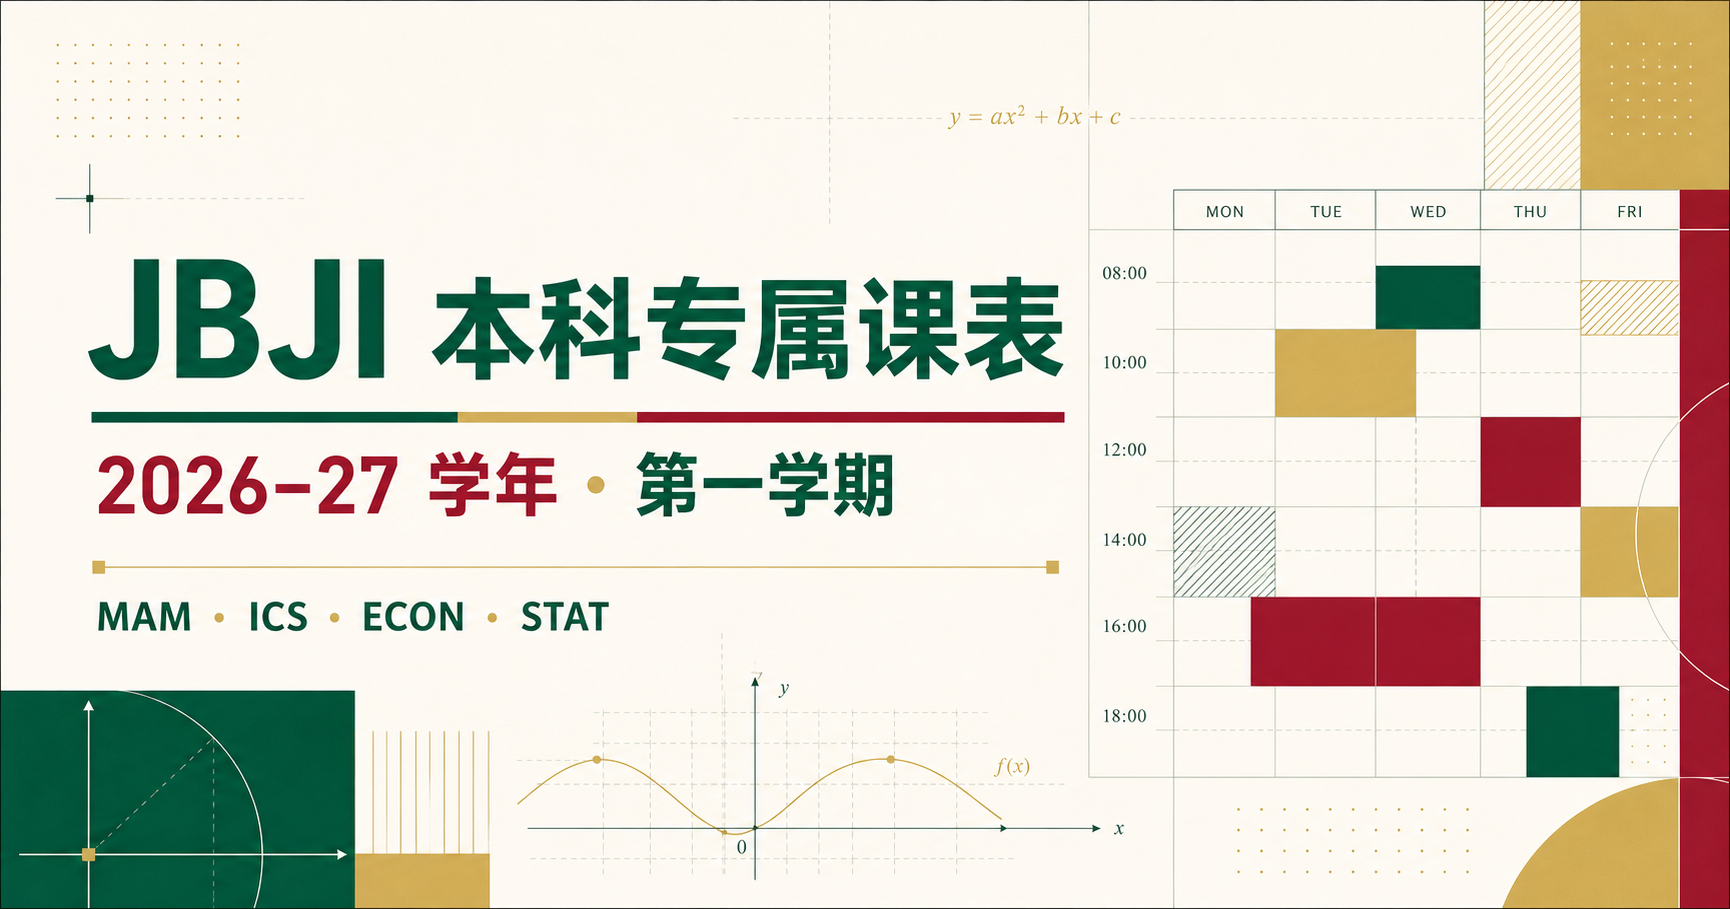
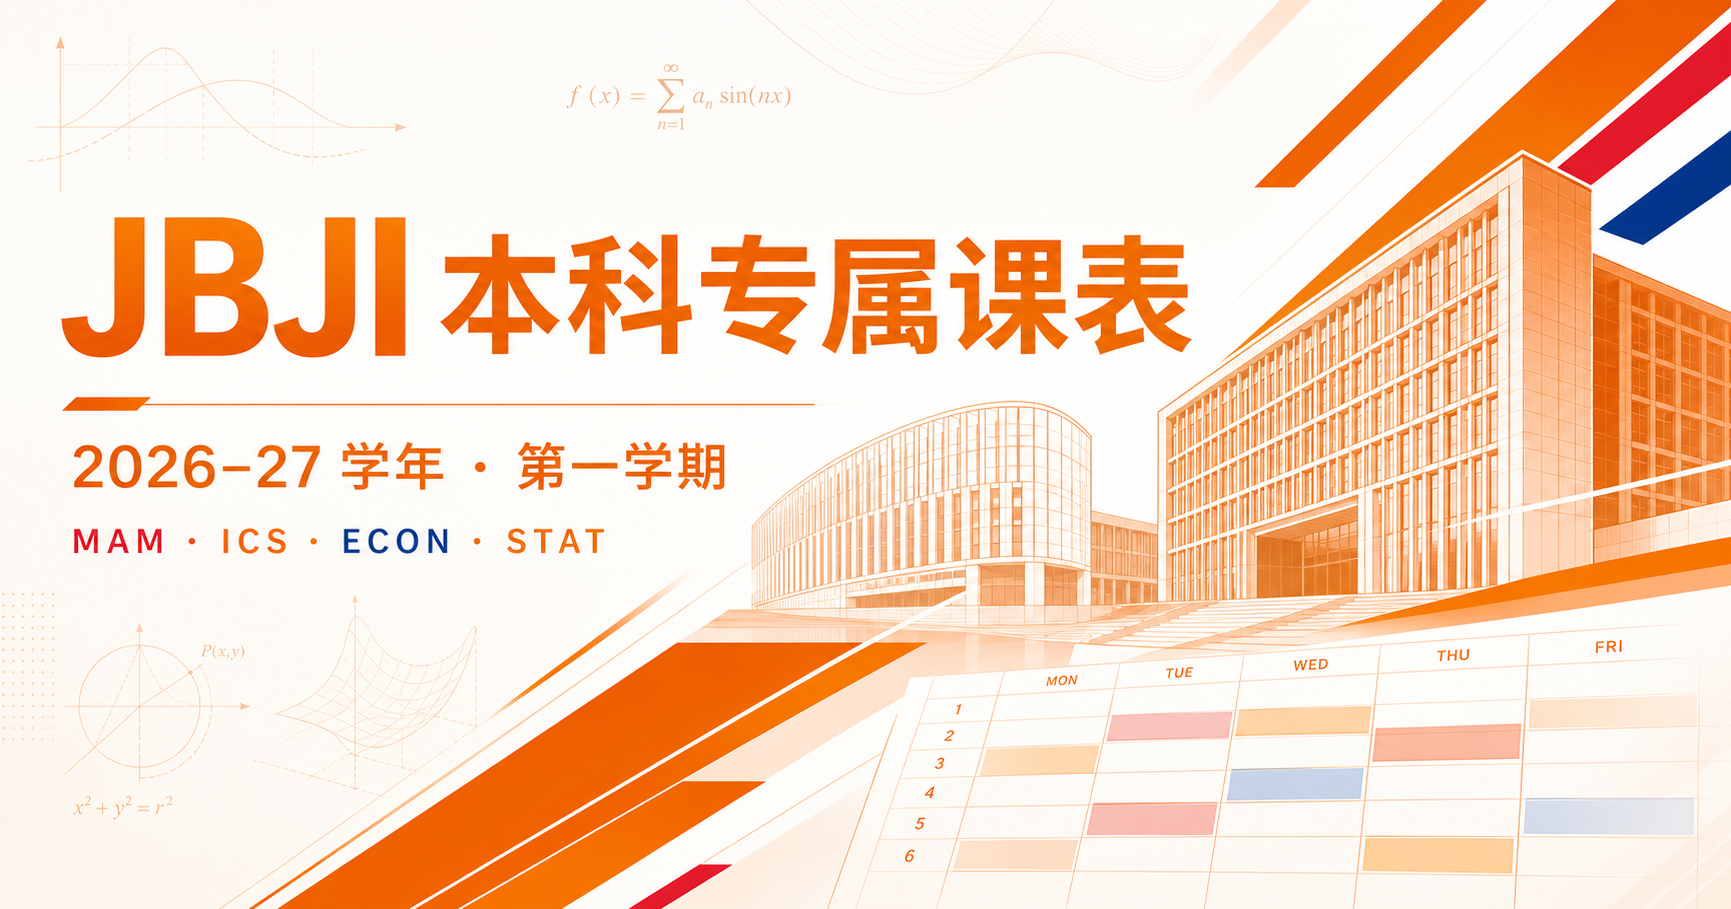
Align design with official JBJI identity

diff --git a/app/globals.css b/app/globals.css
@@ -1,56 +1,53 @@
-:root { --ink:#16241f; --muted:#68746f; --line:#d8ddd5; --green:#006747; --red:#9e1b32; --gold:#c7a45b; --paper:#f4f1e9; }
+:root { --ink:#292929; --muted:#696969; --line:#e3e3e3; --orange:#e77817; --orange-bright:#ff9f00; --red:#e21143; --blue:#244b98; --paper:#f6f6f6; }
 * { box-sizing:border-box; }
 html { scroll-behavior:smooth; }
 body { margin:0; color:var(--ink); background:var(--paper); font-family:"Noto Sans SC","Microsoft YaHei",Arial,sans-serif; }
 button,a { font:inherit; }
 button { color:inherit; }
-.topbar { min-height:82px; padding:12px max(24px,calc((100vw - 1240px)/2)); background:rgba(255,255,255,.96); border-top:4px solid var(--red); border-bottom:1px solid var(--line); display:flex; align-items:center; justify-content:space-between; position:sticky; top:0; z-index:20; backdrop-filter:blur(14px); }
-.brand { display:flex; align-items:center; gap:14px; color:inherit; text-decoration:none; }
-.brandMark { width:58px; height:42px; display:grid; grid-template-columns:1fr 1fr; overflow:hidden; border-radius:3px; color:#fff; font-family:Georgia,serif; font-size:19px; font-weight:800; box-shadow:0 5px 16px rgba(19,44,34,.14); }
-.brandMark b { display:grid; place-items:center; }
-.brandMark b:first-child { background:var(--green); }
-.brandMark b:last-child { background:var(--red); }
-.brand strong,.brand small { display:block; }
-.brand strong { font-family:Georgia,"Songti SC",serif; font-size:16px; letter-spacing:.02em; }
-.brand small { color:var(--muted); font-size:8px; margin-top:4px; letter-spacing:.15em; }
+.topbar { min-height:96px; padding:12px max(24px,calc((100vw - 1240px)/2)); background:rgba(255,255,255,.97); border-top:4px solid var(--orange); border-bottom:1px solid var(--line); display:flex; align-items:center; justify-content:space-between; position:sticky; top:0; z-index:20; backdrop-filter:blur(14px); }
+.brand { display:flex; align-items:center; color:inherit; text-decoration:none; background:rgba(48,48,48,.82); padding:9px 14px; }
+.brandLogo { display:block; width:min(470px,50vw); height:auto; }
 .sourceBadge { display:flex; align-items:center; gap:10px; color:var(--muted); font-size:10px; background:#f7f5ef; border:1px solid #ddd6c8; padding:7px 11px; border-radius:3px; }
-.sourceBadge b { color:var(--red); font-family:Georgia,serif; font-size:14px; }
+.sourceBadge b { color:var(--orange); font-size:13px; }
 .hero,.filterPanel,.contextBar,.scheduleSection,.courseSection,.notice { width:min(1240px,calc(100% - 40px)); margin-inline:auto; }
-.hero { position:relative; min-height:420px; padding:74px 62px 46px; display:flex; justify-content:space-between; align-items:flex-end; gap:34px; color:#fff; overflow:hidden; background:linear-gradient(118deg,#004d38 0%,#006747 62%,#07412f 100%); border-bottom:8px solid var(--red); }
-.hero::before { content:"JBJI"; position:absolute; right:-15px; top:-48px; color:rgba(255,255,255,.055); font:900 240px/1 Georgia,serif; letter-spacing:-.08em; }
-.hero::after { content:""; position:absolute; inset:0; background:linear-gradient(90deg,transparent 49.8%,rgba(255,255,255,.055) 50%,transparent 50.2%); background-size:54px 100%; pointer-events:none; }
-.heroCopy,.heroStat { position:relative; z-index:1; }
-.eyebrow { margin:0 0 12px; color:var(--green); font-size:10px; font-weight:900; letter-spacing:.16em; }
-.hero .eyebrow { color:#e4ca8d; }
+.hero { position:relative; min-height:420px; padding:54px 56px 42px; display:flex; justify-content:space-between; align-items:flex-end; gap:34px; overflow:hidden; background:#fff5ef; border-bottom:7px solid var(--orange); }
+.hero::before,.hero::after { content:""; position:absolute; z-index:1; width:12px; height:145%; top:-20%; background:var(--orange); transform:rotate(39deg); }
+.hero::before { left:57%; }
+.hero::after { left:59%; width:4px; }
+.heroBackdrop { position:absolute; inset:0; }
+.heroBackdrop::after { content:""; position:absolute; inset:0; background:linear-gradient(100deg,#fff5ef 0%,rgba(255,245,239,.98) 45%,rgba(255,245,239,.78) 58%,rgba(255,255,255,.08) 76%); }
+.heroBackdrop img { width:100%; height:100%; object-fit:cover; object-position:center; }
+.heroCopy,.heroStat { position:relative; z-index:2; }
+.eyebrow { margin:0 0 12px; color:var(--orange); font-size:10px; font-weight:900; letter-spacing:.16em; }
 h1 { margin:0; max-width:800px; font-family:Georgia,"Songti SC",serif; font-size:clamp(40px,5.5vw,72px); line-height:1.06; letter-spacing:-.035em; font-weight:600; }
 .lead { max-width:700px; margin:20px 0 0; color:var(--muted); font-size:14px; line-height:1.8; }
-.hero .lead { max-width:620px; color:rgba(255,255,255,.76); }
-.heroRule { display:flex; gap:0; margin-top:28px; color:#fff; font-size:10px; letter-spacing:.08em; }
-.heroRule span { padding:0 13px; border-left:1px solid rgba(255,255,255,.32); }
+.hero .lead { max-width:590px; color:#5e5e5e; }
+.heroRule { display:flex; gap:0; margin-top:28px; color:#333; font-size:10px; letter-spacing:.08em; }
+.heroRule span { padding:0 13px; border-left:1px solid #c7c7c7; }
 .heroRule span:first-child { padding-left:0; border-left:0; }
-.heroStat { min-width:150px; padding:18px 22px; border-left:1px solid rgba(255,255,255,.25); text-align:right; }
+.heroStat { min-width:150px; padding:20px 24px; color:#fff; background:rgba(231,120,23,.94); text-align:right; box-shadow:10px 10px 0 rgba(255,255,255,.72); }
 .heroStat strong,.heroStat span,.heroStat small { display:block; }
 .heroStat strong { font-family:Georgia,serif; font-size:64px; color:#fff; line-height:1; }
-.heroStat span,.heroStat small { color:#e4ca8d; font-size:9px; letter-spacing:.12em; }
+.heroStat span,.heroStat small { color:#fff; font-size:9px; letter-spacing:.12em; }
 .heroStat small { margin-top:5px; }
-.filterPanel { position:relative; z-index:6; margin-top:-20px; background:#fff; border:1px solid #d8d1c4; border-top:4px solid var(--gold); border-radius:4px; padding:20px; display:grid; grid-template-columns:auto 1fr auto; gap:22px; box-shadow:0 18px 38px rgba(22,45,36,.12); }
-.filterGroup>span { display:block; margin:0 0 9px 2px; color:#7e6e50; font-size:9px; font-weight:900; letter-spacing:.14em; }
+.filterPanel { position:relative; z-index:6; margin-top:-20px; background:#fff; border:1px solid #dedede; border-top:4px solid var(--orange); border-radius:2px; padding:20px; display:grid; grid-template-columns:auto 1fr auto; gap:22px; box-shadow:0 18px 38px rgba(35,35,35,.09); }
+.filterGroup>span { display:block; margin:0 0 9px 2px; color:var(--orange); font-size:9px; font-weight:900; letter-spacing:.14em; }
 .segmented { display:flex; gap:6px; flex-wrap:wrap; }
 .segmented button { border:1px solid #d9ddd8; background:#f8f8f4; min-height:45px; border-radius:3px; padding:8px 14px; cursor:pointer; transition:.18s ease; }
-.segmented button:hover { border-color:var(--green); color:var(--green); transform:translateY(-1px); }
-.segmented button:focus-visible { outline:3px solid #b9d2c8; outline-offset:2px; }
-.segmented button.active { color:#fff; background:var(--green); border-color:var(--green); box-shadow:inset 0 -3px 0 var(--gold),0 7px 16px rgba(0,103,71,.16); }
+.segmented button:hover { border-color:var(--orange); color:var(--orange); transform:translateY(-1px); }
+.segmented button:focus-visible { outline:3px solid #ffd2a8; outline-offset:2px; }
+.segmented button.active { color:#fff; background:var(--orange); border-color:var(--orange); box-shadow:inset 0 -3px 0 var(--orange-bright),0 7px 16px rgba(231,120,23,.2); }
 .segmented button small,.segmented button b { display:block; }
 .segmented button b { font-size:11px; }
 .segmented button small { margin-top:2px; font-size:9px; opacity:.75; }
 .majorGroup .segmented { flex-wrap:nowrap; }
 .majorGroup .segmented button { min-width:112px; }
 .classGroup .segmented button { min-width:58px; }
-.contextBar { margin-top:12px; padding:11px 16px; display:flex; align-items:center; gap:10px; color:#aab5b0; font-size:9px; letter-spacing:.04em; background:var(--ink); border-left:5px solid var(--red); }
+.contextBar { margin-top:12px; padding:11px 16px; display:flex; align-items:center; gap:10px; color:#c8c8c8; font-size:9px; letter-spacing:.04em; background:#333; border-left:5px solid var(--orange); }
 .contextBar strong { color:#fff; font-size:11px; }
 .contextBar small { margin-left:auto; }
 .scheduleSection,.courseSection { padding:26px; background:#fff; border:1px solid #d8d2c7; border-radius:4px; box-shadow:0 8px 25px rgba(35,46,40,.045); }
-.scheduleSection { margin-top:10px; border-top:4px solid var(--green); }
+.scheduleSection { margin-top:10px; border-top:4px solid var(--orange); }
 .courseSection { margin-top:18px; }
 .sectionHead { display:flex; justify-content:space-between; align-items:end; gap:20px; margin-bottom:16px; }
 .sectionHead.compact { align-items:center; }
@@ -58,15 +55,15 @@ h1 { margin:0; max-width:800px; font-family:Georgia,"Songti SC",serif; font-size
 .legend { display:flex; gap:14px; color:var(--muted); font-size:10px; flex-wrap:wrap; }
 .legend span { display:flex; align-items:center; gap:5px; }
 .dot { width:8px; height:8px; border-radius:50%; }
-.dot.common { background:var(--red); }
-.dot.shared { background:var(--gold); }
-.dot.own { background:var(--green); }
-.dot.optional { background:#b76a9d; }
+.dot.common { background:var(--orange); }
+.dot.shared { background:var(--red); }
+.dot.own { background:var(--blue); }
+.dot.optional { background:#666; }
 .tableScroll { overflow:auto; border:1px solid #ccd3ce; border-radius:2px; box-shadow:inset 0 0 0 1px #fff; }
 .timetable { min-width:960px; display:grid; grid-template-columns:72px repeat(5,minmax(165px,1fr)); grid-template-rows:50px repeat(12,58px); position:relative; background:#fff; }
-.corner,.dayHead { background:#143a2d; color:#fff; display:flex; align-items:center; justify-content:center; font-size:11px; font-weight:800; }
-.corner { grid-column:1; grid-row:1; background:var(--red); }
-.dayHead { grid-row:1; border-left:1px solid rgba(255,255,255,.14); border-top:3px solid var(--gold); gap:7px; }
+.corner,.dayHead { background:#333; color:#fff; display:flex; align-items:center; justify-content:center; font-size:11px; font-weight:800; }
+.corner { grid-column:1; grid-row:1; background:var(--orange); }
+.dayHead { grid-row:1; border-left:1px solid rgba(255,255,255,.14); border-top:3px solid var(--orange-bright); gap:7px; }
 .dayHead small { opacity:.55; font-size:8px; letter-spacing:.12em; }
 .timeCell { grid-column:1; padding:7px 4px; text-align:center; border-top:1px solid var(--line); background:#f3f1eb; z-index:2; }
 .timeCell strong,.timeCell span,.timeCell small { display:block; }
@@ -82,12 +79,12 @@ h1 { margin:0; max-width:800px; font-family:Georgia,"Songti SC",serif; font-size
 .courseBlock small { margin-top:3px; font-size:8px; line-height:1.3; opacity:.75; }
 .courseBlock em { margin-top:5px; font-size:8px; font-style:normal; font-weight:800; }
 .courseTag { font-size:7.5px; font-weight:900; letter-spacing:.08em; }
-.tone-common { background:#f5e5e8; border-color:var(--red); }
-.tone-shared { background:#f7efd9; border-color:var(--gold); }
-.tone-major { background:#e1f0eb; border-color:var(--green); }
-.tone-optional { background:#f7dff0; border-color:#b76a9d; }
+.tone-common { background:#fff0e3; border-color:var(--orange); }
+.tone-shared { background:#fde8ed; border-color:var(--red); }
+.tone-major { background:#e9eef8; border-color:var(--blue); }
+.tone-optional { background:#eeeeee; border-color:#666; }
 .emptyState { padding:36px; text-align:center; color:var(--muted); font-size:12px; }
-.countBadge { padding:7px 11px; border-radius:2px; background:var(--green); color:#fff; font-family:Georgia,serif; font-size:11px; }
+.countBadge { padding:7px 11px; border-radius:2px; background:var(--orange); color:#fff; font-family:Georgia,serif; font-size:11px; }
 .courseList { display:grid; grid-template-columns:repeat(2,minmax(0,1fr)); gap:8px; }
 .courseItem { border:1px solid var(--line); border-left-width:4px; border-radius:3px; padding:13px 14px; display:flex; justify-content:space-between; gap:12px; }
 .courseItem span,.courseItem strong,.courseItem small { display:block; }
@@ -97,12 +94,12 @@ h1 { margin:0; max-width:800px; font-family:Georgia,"Songti SC",serif; font-size
 .courseMeta { text-align:right; flex:none; }
 .courseMeta b,.courseMeta em { display:block; font-size:8px; }
 .courseMeta em { font-style:normal; color:var(--muted); margin-top:4px; max-width:120px; }
-.notice { margin-top:13px; padding:16px 18px; border:1px solid #d8cfbd; border-left:5px solid var(--gold); border-radius:2px; background:#f8f4e9; display:flex; gap:15px; align-items:flex-start; }
-.notice strong { font-size:11px; white-space:nowrap; color:var(--red); }
+.notice { margin-top:13px; padding:16px 18px; border:1px solid #ead8c8; border-left:5px solid var(--orange); border-radius:2px; background:#fff5ed; display:flex; gap:15px; align-items:flex-start; }
+.notice strong { font-size:11px; white-space:nowrap; color:var(--orange); }
 .notice p { margin:0; color:var(--muted); font-size:10px; line-height:1.7; }
 footer { width:min(1240px,calc(100% - 40px)); margin:18px auto 0; padding:22px 0 30px; color:var(--muted); font-size:9px; display:flex; align-items:center; justify-content:space-between; gap:16px; border-top:1px solid #d7d0c4; letter-spacing:.04em; }
-footer span:first-child { color:var(--green); font-weight:900; }
-footer a { color:var(--red); text-decoration:none; font-weight:800; }
+footer span:first-child { color:var(--orange); font-weight:900; }
+footer a { color:var(--orange); text-decoration:none; font-weight:800; }
 footer a:hover { text-decoration:underline; }
 
 @media(max-width:900px) {
@@ -115,7 +112,9 @@ footer a:hover { text-decoration:underline; }
 @media(max-width:820px) {
   .sourceBadge { display:none; }
   .hero { display:block; min-height:360px; padding:46px 24px 36px; }
-  .hero::before { font-size:150px; top:-10px; }
+  .hero::before { left:77%; }
+  .hero::after { left:82%; }
+  .heroBackdrop::after { background:linear-gradient(100deg,#fff5ef 0%,rgba(255,245,239,.97) 76%,rgba(255,245,239,.35) 100%); }
   .heroStat { display:none; }
   .sectionHead { display:block; }
   .legend { margin-top:12px; }
@@ -123,9 +122,7 @@ footer a:hover { text-decoration:underline; }
   .hero,.filterPanel,.contextBar,.scheduleSection,.courseSection,.notice,footer { width:min(100% - 24px,1240px); }
   h1 { font-size:38px; }
   .topbar { padding:10px 14px; }
-  .brand strong { font-size:13px; }
-  .brand small { font-size:6.5px; letter-spacing:.1em; }
-  .brandMark { width:48px; height:38px; }
+  .brandLogo { width:min(330px,78vw); }
   .notice { display:block; }
   .notice p { margin-top:6px; }
   footer { display:block; text-align:left; }

diff --git a/app/page.tsx b/app/page.tsx
@@ -54,8 +54,8 @@ export default function Home(){
   const groupLabel=classCount?`${selectedMajor.label}${classNo}`:selectedMajor.label;
 
   return <main>
-    <header className="topbar"><a className="brand" href="#top"><span className="brandMark"><b>J</b><b>B</b></span><span><strong>暨南大学伯明翰大学联合学院</strong><small>JINAN · BIRMINGHAM JOINT INSTITUTE</small></span></a><span className="sourceBadge"><b>2026–27</b><span>第一学期本科课表</span></span></header>
-    <section className="hero" id="top"><div className="heroCopy"><p className="eyebrow">JINAN × BIRMINGHAM · PERSONAL TIMETABLE</p><h1>一张课表，<br/>看清你的暨伯学期。</h1><p className="lead">选择年级、专业与班级，只保留与你相关的课程。伯大课程、专业共享课和英语分组会自动归入同一张表。</p><div className="heroRule"><span>数学交叉</span><span>双校培养</span><span>四个本科专业</span></div></div><div className="heroStat"><span>当前组合</span><strong>{courses.length}</strong><small>COURSES</small></div></section>
+    <header className="topbar"><a className="brand" href="#top"><img className="brandLogo" src="./jbji-logo.png" alt="暨南大学伯明翰大学联合学院院徽"/></a><span className="sourceBadge"><b>本科课表</b><span>2026–27 学年 · 第一学期</span></span></header>
+    <section className="hero" id="top"><div className="heroBackdrop" aria-hidden="true"><img src="./jbji-banner.jpg" alt=""/></div><div className="heroCopy"><p className="eyebrow">JBJI PERSONAL TIMETABLE</p><h1>一张课表，<br/>看清你的暨伯学期。</h1><p className="lead">选择年级、专业与班级，只保留与你相关的课程。伯大课程、专业共享课和英语分组会自动归入同一张表。</p><div className="heroRule"><span>数学交叉</span><span>双校培养</span><span>四个本科专业</span></div></div><div className="heroStat"><span>当前组合</span><strong>{courses.length}</strong><small>COURSES</small></div></section>
     <section className="filterPanel" aria-label="课表筛选">
       <div className="filterGroup"><span>年级</span><div className="segmented">{[1,2,3,4].map((item)=><button key={item} className={year===item?'active':''} onClick={()=>setYear(item)}>大{['一','二','三','四'][item-1]}</button>)}</div></div>
       <div className="filterGroup majorGroup"><span>专业</span><div className="segmented">{majors.map((item)=><button key={item.id} className={major===item.id?'active':''} onClick={()=>setMajor(item.id)}><b>{item.label}</b><small>{item.name}</small></button>)}</div></div>

diff --git a/index.html b/index.html
@@ -10,7 +10,7 @@
     <meta property="og:url" content="https://hehongyu117-bit.github.io/jbji-timetable/" />
     <meta property="og:image" content="https://hehongyu117-bit.github.io/jbji-timetable/og.png" />
     <meta name="twitter:card" content="summary_large_image" />
-    <link rel="icon" href="./favicon.ico" />
+    <link rel="icon" href="./jbji-logo.png" />
     <title>JBJI 本科专属课表 · 2026–27 第一学期</title>
   </head>
   <body>

diff --git a/README.md b/README.md
@@ -32,3 +32,5 @@ npm run build
 ## 开源许可
 
 代码以 MIT License 开源。课程与教务信息仅供查阅，最终安排以学院通知为准。
+
+`public/jbji-logo.png` 与 `public/jbji-banner.jpg` 来源于[暨南大学伯明翰大学联合学院官网](https://birmingham.jnu.edu.cn/)，相关校徽、名称与图片权利归暨南大学、伯明翰大学及学院所有，不包含在本项目的 MIT 软件许可中。本项目为非官方学生工具。
